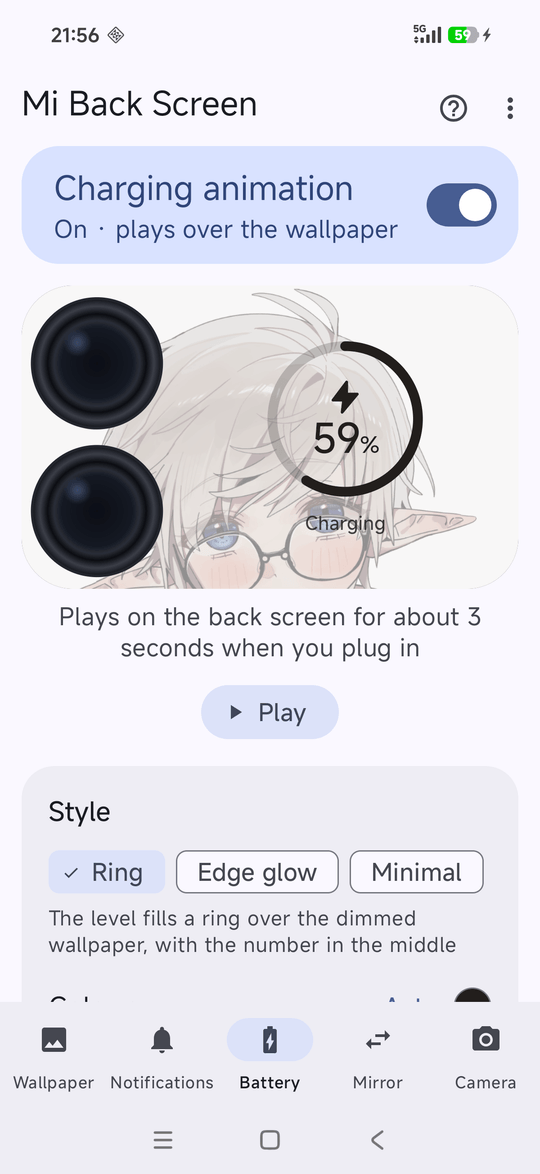
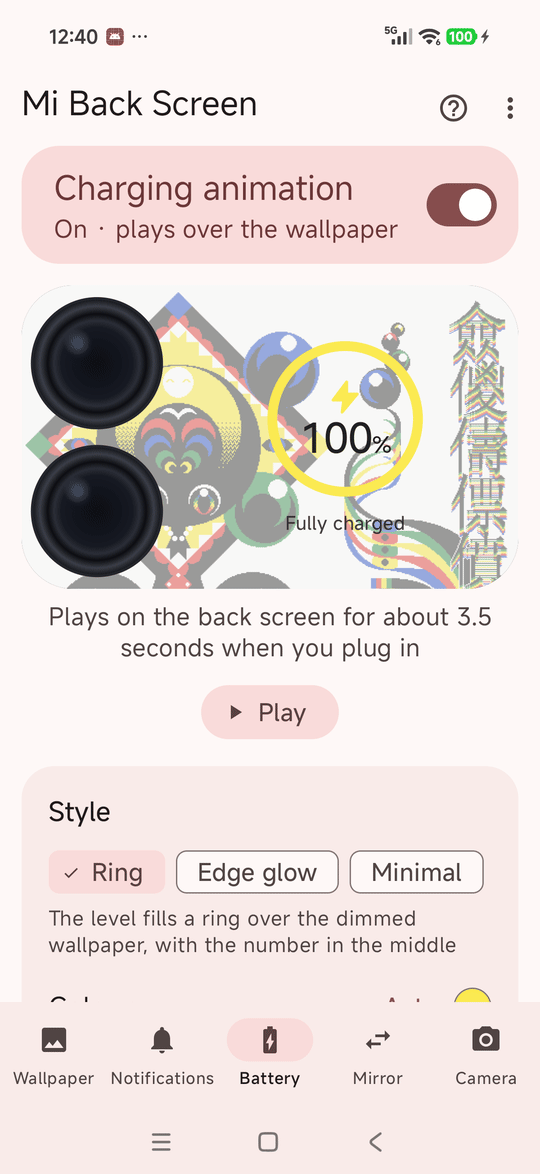
Phase 19 and 2.1: docs, screenshots, release
- 2.1 (versionCode 10).
- README: Do Not Disturb and Focus mode, backups, and release builds
  (assembleRelease, the signing settings, CI).
- Site: Add images, panning, Bring back when the phone locks, schedule
  catch-up, the Shizuku banner, backups, a before-uninstalling FAQ and
  assembleRelease.
- The five tab screenshots retaken on 2.1 (Material 1.14).

diff --git a/docs/index.html b/docs/index.html
@@ -252,7 +252,7 @@
         <div class="card">
           <div class="ico"><svg viewBox="0 0 24 24" fill="none" stroke="currentColor" stroke-width="2" stroke-linecap="round" stroke-linejoin="round"><rect x="3" y="3" width="18" height="18" rx="3"/><circle cx="9" cy="9" r="2"/><path d="m21 15-5-5L5 21"/></svg></div>
           <h3>Images, GIFs and galleries</h3>
-          <p>Choose one image or several, or point it at a folder, and it moves on to the next every few minutes or hours. GIFs loop. Images that don't fit the screen's shape can glide slowly across it, or stay still if they'd barely move. No images? It shows black, with the clock.</p>
+          <p>Choose one image or several and add more any time, or point it at a folder, and it moves on to the next every few minutes or hours, in order or shuffled. GIFs loop. Turn on panning and images that don't fit the screen's shape glide slowly across it, or stay still if they'd barely move. No images? It shows black, with the clock.</p>
         </div>
         <div class="card">
           <div class="ico"><svg viewBox="0 0 24 24" fill="none" stroke="currentColor" stroke-width="2" stroke-linecap="round" stroke-linejoin="round"><rect x="2" y="6" width="20" height="12" rx="3"/><path d="M8 10v4M12 10v4M16 10v4"/></svg></div>
@@ -262,7 +262,7 @@
         <div class="card">
           <div class="ico"><svg viewBox="0 0 24 24" fill="none" stroke="currentColor" stroke-width="2" stroke-linecap="round" stroke-linejoin="round"><path d="M6 8a6 6 0 0 1 12 0c0 7 3 9 3 9H3s3-2 3-9"/><path d="M10.3 21a1.94 1.94 0 0 0 3.4 0"/></svg></div>
           <h3>Notifications</h3>
-          <p>New ones slide in at the top, showing just the app, who it's from, or the message too: your choice. Pull down for the ones you haven't cleared. While locked, it follows your lock screen's privacy.</p>
+          <p>New ones slide in at the top, showing just the app, who it's from, or the message too: your choice. Pull down for the ones you haven't cleared. It follows your lock screen's privacy while locked, and Do Not Disturb and Focus mode at any time.</p>
         </div>
         <div class="card">
           <div class="ico"><svg viewBox="0 0 24 24" fill="none" stroke="currentColor" stroke-width="2" stroke-linecap="round" stroke-linejoin="round"><rect x="2" y="7" width="17" height="10" rx="2"/><path d="M22 11v2"/><path d="m11 9-2 3h3l-2 3"/></svg></div>
@@ -272,7 +272,7 @@
         <div class="card">
           <div class="ico"><svg viewBox="0 0 24 24" fill="none" stroke="currentColor" stroke-width="2" stroke-linecap="round" stroke-linejoin="round"><path d="M4 9h14l-4-4"/><path d="M20 15H6l4 4"/></svg></div>
           <h3>Quick Switch</h3>
-          <p>A Quick Settings tile moves the app you're using to the back screen, and brings it back. It stays lit as long as you choose, and apps can show smaller or upright. Xiaomi's settings are always put back.</p>
+          <p>A Quick Settings tile moves the app you're using to the back screen, and brings it back. It stays lit as long as you choose, and apps can show smaller or upright. Lock the phone and, once the back screen goes dark, the app comes back to the main screen. Xiaomi's settings are always put back.</p>
         </div>
         <div class="card">
           <div class="ico"><svg viewBox="0 0 24 24" fill="none" stroke="currentColor" stroke-width="2" stroke-linecap="round" stroke-linejoin="round"><path d="M14.5 4h-5L7 7H4a2 2 0 0 0-2 2v9a2 2 0 0 0 2 2h16a2 2 0 0 0 2-2V9a2 2 0 0 0-2-2h-3l-2.5-3Z"/><circle cx="12" cy="13" r="3"/></svg></div>
@@ -287,12 +287,12 @@
         <div class="card">
           <div class="ico"><svg viewBox="0 0 24 24" fill="none" stroke="currentColor" stroke-width="2" stroke-linecap="round" stroke-linejoin="round"><circle cx="12" cy="12" r="9"/><path d="M12 7v5l3 2"/></svg></div>
           <h3>Tile, widget and schedules</h3>
-          <p>Turn the wallpaper on or off from a Quick Settings tile or a home-screen widget, or at set times, such as off overnight. It comes back by itself after a restart, once Shizuku runs.</p>
+          <p>Turn the wallpaper on or off from a Quick Settings tile or a home-screen widget, or at set times, such as off overnight. It comes back by itself after a restart, once Shizuku runs, and catches up on a schedule change it missed while the phone was off.</p>
         </div>
         <div class="card">
           <div class="ico"><svg viewBox="0 0 24 24" fill="none" stroke="currentColor" stroke-width="2" stroke-linecap="round" stroke-linejoin="round"><path d="M12 3 4 6v6c0 5 3.5 8 8 9 4.5-1 8-4 8-9V6l-8-3Z"/><path d="m9 12 2 2 4-4"/></svg></div>
           <h3>Private by design</h3>
-          <p>No internet permission, no storage permission and no camera permission. Notification text is shown on the back screen and never stored or sent anywhere.</p>
+          <p>No internet permission, no storage permission and no camera permission. Notification text is shown on the back screen and never stored or sent anywhere, and the app's data stays out of backups.</p>
         </div>
       </div>
     </div>
@@ -332,7 +332,7 @@
         </li>
         <li>
           <h3>Allow access</h3>
-          <p>Open Mi Back Screen and tap <b>Allow access</b>. If the prompt doesn't appear, open Shizuku → <b>Authorized apps</b> and switch Mi Back Screen on.</p>
+          <p>Open Mi Back Screen and tap <b>Allow access</b>. Until Shizuku is ready, a banner says what's missing, with <b>Get Shizuku</b> or <b>Open Shizuku</b>. If the prompt doesn't appear, open Shizuku → <b>Authorized apps</b> and switch Mi Back Screen on.</p>
         </li>
         <li>
           <h3>Pick an image and switch it on</h3>
@@ -404,12 +404,16 @@
         <p>HyperOS pauses apps in the background and holds back their alarms. Open Settings → Apps → Mi Back Screen, turn on <b>Autostart</b> and set <b>Battery saver</b> to <b>No restrictions</b>; the app shows a <b>Setup needed</b> card until you do. Shizuku also has to be running at the scheduled time.</p>
       </details>
       <details>
+        <summary>Is there anything to do before uninstalling?</summary>
+        <p>Bring back any app on the back screen, and set <b>Stays lit for</b> on the Wallpaper tab to <b>As set</b>. Both change Xiaomi's own back-screen settings, and uninstalling can't put them back.</p>
+      </details>
+      <details>
         <summary>Why is it not on the Play Store?</summary>
         <p>It depends on Xiaomi-specific behaviour and Shizuku, which isn't a good fit for the Play Store. The full source is on GitHub, so you can build it yourself if you prefer.</p>
       </details>
       <details>
         <summary>How do I build it from source?</summary>
-        <p>Clone the repository and run <code>./gradlew assembleDebug</code> with JDK 21 and the Android SDK installed. The APK lands in <code>app/build/outputs/apk/debug/</code>.</p>
+        <p>Clone the repository and run <code>./gradlew assembleDebug</code> with JDK 21 and the Android SDK installed. The APK lands in <code>app/build/outputs/apk/debug/</code>. <code>./gradlew assembleRelease</code> makes a release build, unsigned unless you give it a signing key; the README says how.</p>
       </details>
     </div>
   </section>

diff --git a/README.md b/README.md
@@ -29,7 +29,7 @@ The app has five tabs, each with its own switch.
 - **Back screen display:** choose how long it stays lit (5 s to 5 min), keep it fully lit while unlocked, and light it again when you pick the phone up.
 - A Quick Settings tile, a home-screen widget, and schedules (e.g. off overnight). It puts itself back after anything closes it, and after a restart once Shizuku is running.
 
-**Notifications** — new ones slide in at the top showing just the app, the sender, or the message too. Pull down for the ones you haven't cleared. While locked it follows your lock screen: just the app if that hides sensitive content, nothing if it shows no notifications. Work-profile notifications always show as on a locked phone.
+**Notifications** — new ones slide in at the top showing just the app, the sender, or the message too. Pull down for the ones you haven't cleared. While locked it follows your lock screen: just the app if that hides sensitive content, nothing if it shows no notifications. Work-profile notifications always show as on a locked phone. Do Not Disturb and Focus mode apply too.
 
 **Battery** — plug in and the back screen plays a short charging animation with the level: **Ring**, **Edge glow** or **Minimal**, in a colour taken from the image or one you pick.
 
@@ -79,7 +79,7 @@ Measured on a 17 Pro Max over an hour, locked, with the clock on the dimmed back
 
 ## Privacy
 
-Only the images or folder you pick are shared with the app, and chosen images are copied into its private storage (**Remove images** deletes them). Notifications are read only with Notification access and only while that tab is on; their text is shown on the back screen, kept in memory only while it's in your shade, and never stored or sent. Quick Switch reads only the names of apps with a launcher icon. There's no camera permission: Xiaomi Camera takes and saves the photos. Nothing leaves the phone.
+Only the images or folder you pick are shared with the app, and chosen images are copied into its private storage (**Remove images** deletes them). Notifications are read only with Notification access and only while that tab is on; their text is shown on the back screen, kept in memory only while it's in your shade, and never stored or sent. Quick Switch reads only the names of apps with a launcher icon. There's no camera permission: Xiaomi Camera takes and saves the photos. Nothing leaves the phone, and the app's data is left out of backups and transfers to a new phone.
 
 ## Building
 
@@ -88,7 +88,10 @@ Requires JDK 21 (Robolectric needs it for the Android 16 tests) and the Android 
 ```bash
 ./gradlew assembleDebug        # app/build/outputs/apk/debug/
 ./gradlew testDebugUnitTest    # unit tests
+./gradlew assembleRelease      # app/build/outputs/apk/release/
 ```
+
+A release build is signed using four settings, `MBS_STORE_FILE`, `MBS_STORE_PASSWORD`, `MBS_KEY_ALIAS` and `MBS_KEY_PASSWORD`, taken from environment variables or from `local.properties` (which isn't committed). Without them, `assembleRelease` makes an unsigned APK. Published releases are all signed with the same key, so each one installs over the last and keeps your settings. Every push runs the tests, lint and an unsigned release build on GitHub Actions.
 
 ## Licence
 
